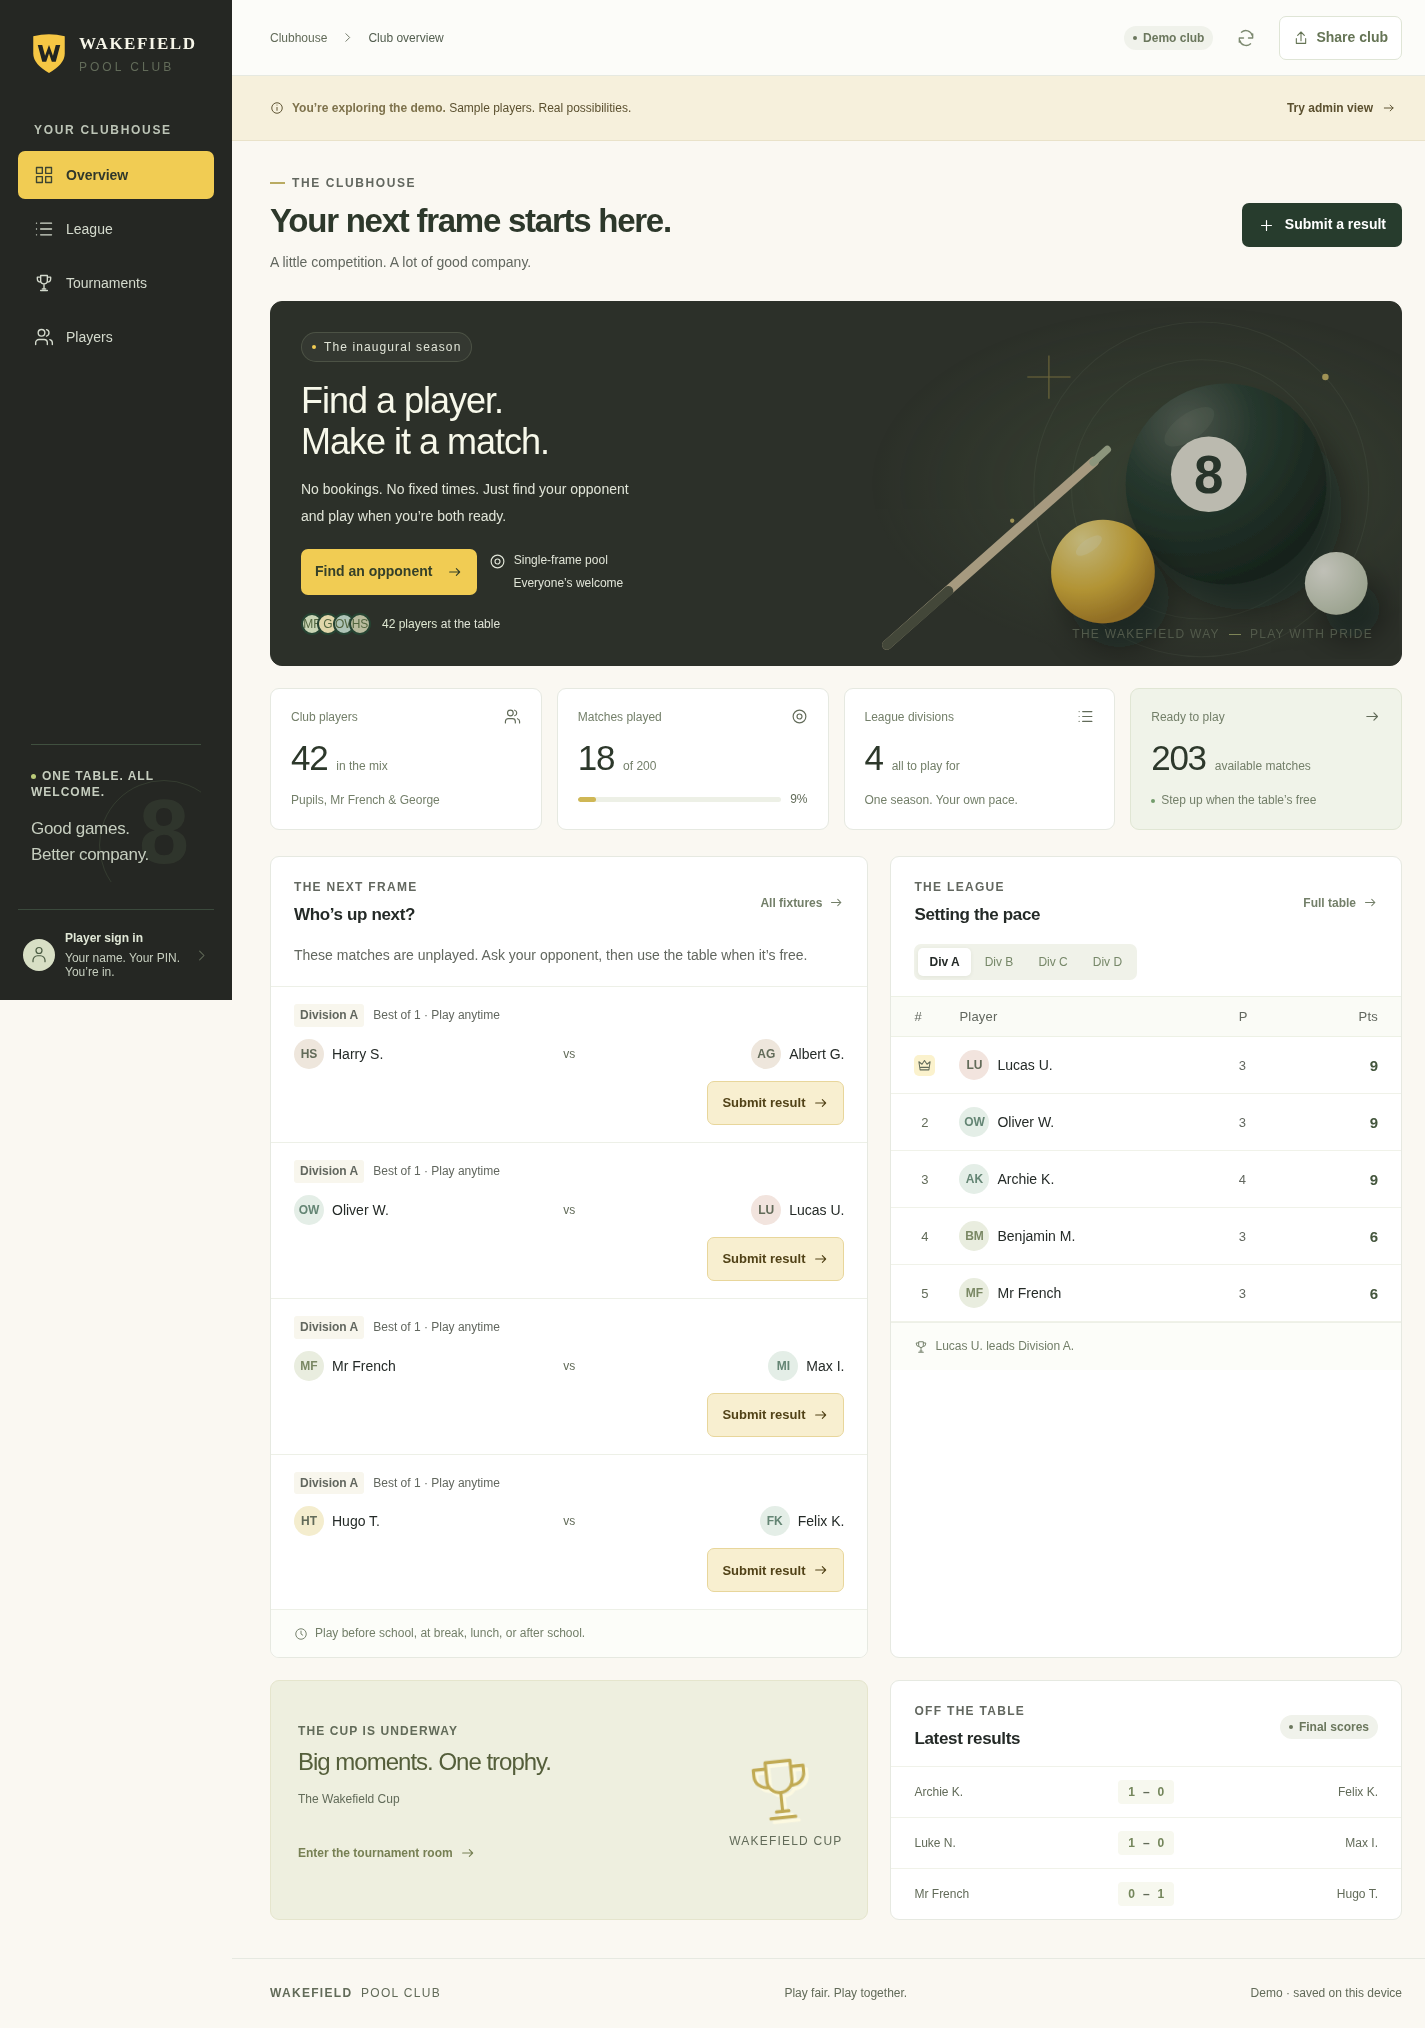
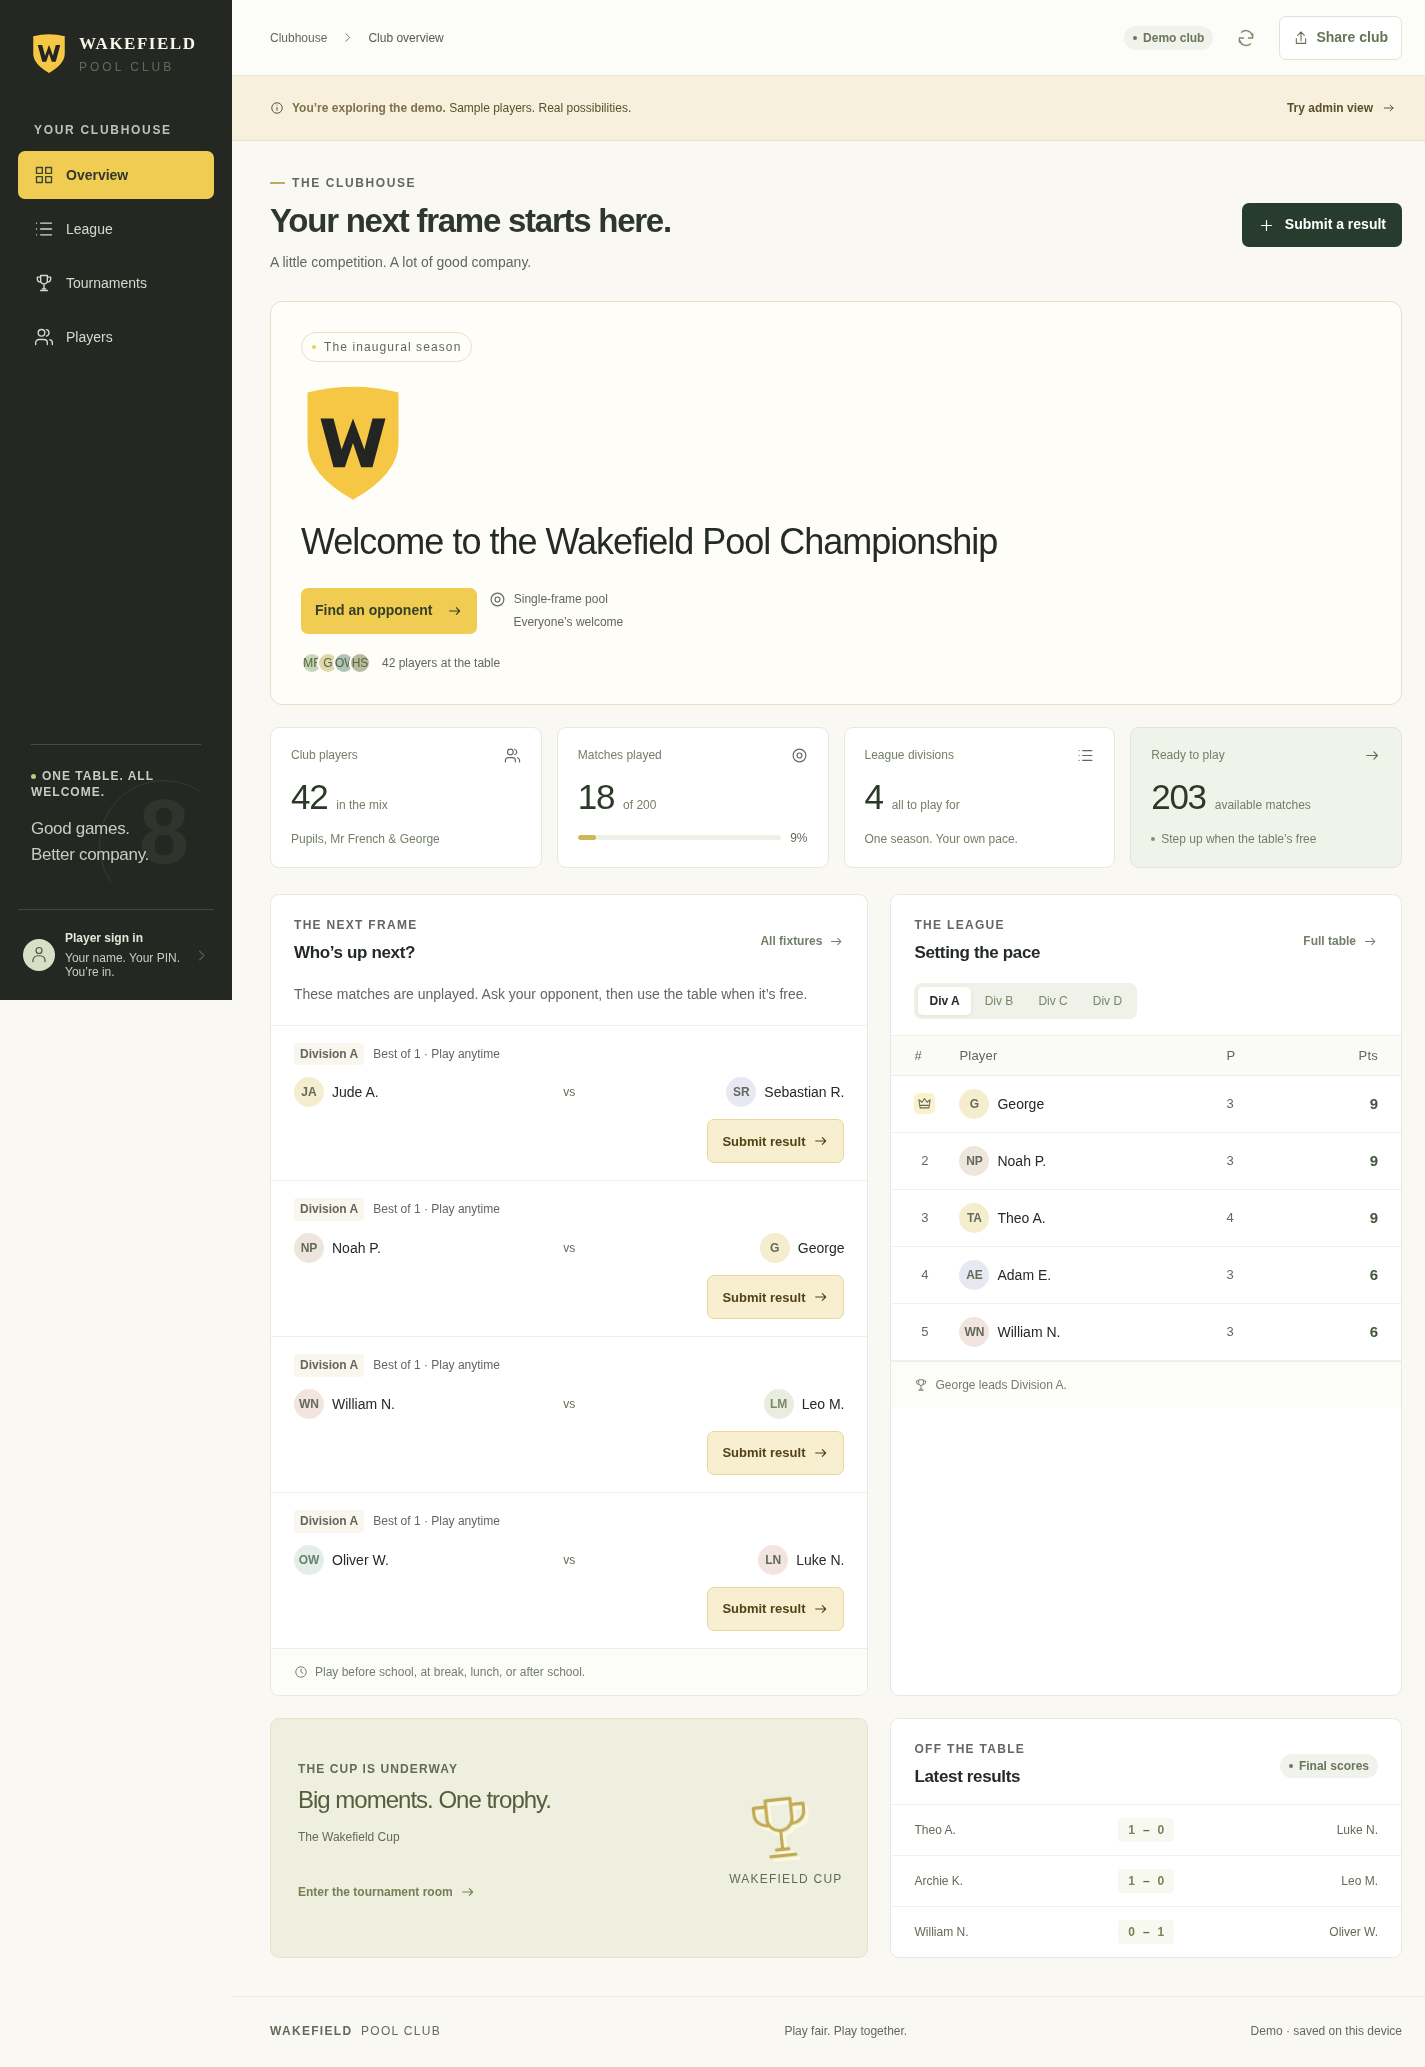
Replace promotional hero copy with a light championship welcome

diff --git a/demo/index.html b/demo/index.html
@@ -4247,6 +4247,17 @@ td strong{font-size:15px;color:var(--ink)}
 .season-card{background:#2c3029}
 .season-card .section-kicker,.season-card>strong span,.season-card>p,.season-card>div{color:#e0e4d7}
 .sidebar-season>span{color:#c6cebf}
+
+.welcome-crest{display:block;width:104px;height:124px;object-fit:contain;margin:20px 0 14px}
+.hero:has(.welcome-crest){grid-template-columns:1fr;min-height:0}
+.hero:has(.welcome-crest) .hero-art{display:none}
+.hero:has(.welcome-crest) h2{max-width:700px;margin-top:0;margin-bottom:24px;line-height:1.2}
+@media(max-width:760px){.welcome-crest{width:80px;height:96px}.hero:has(.welcome-crest) h2{font-size:28px;max-width:none}}
+.hero:has(.welcome-crest){background:#fffdf7;color:var(--ink);border-color:#e8dfc4}
+.hero:has(.welcome-crest) h2{color:var(--ink)}
+.hero:has(.welcome-crest) .hero-label{color:#62675f;background:transparent;border-color:#e8dfc4}
+.hero:has(.welcome-crest) .hero-foot,.hero:has(.welcome-crest) .hero-foot b,.hero:has(.welcome-crest) .hero-format,.hero:has(.welcome-crest) .hero-format>span{color:#62675f}
+.hero:has(.welcome-crest) .mini-avatars i{border-color:#fffdf7}
 </style>
 </head>
 <body><div id="app"><div class="loading">WAKEFIELD <span>Setting up the table…</span></div></div><div id="modal-root"></div><div id="toast" role="status" aria-live="polite"></div><script type="module">const uid = () => globalThis.crypto.randomUUID?.() || Array.from(globalThis.crypto.getRandomValues(new Uint8Array(16)), n => n.toString(16).padStart(2, '0')).join('');
@@ -4442,7 +4453,7 @@ function overview(){
  return `${heading('THE CLUBHOUSE',user?`Good to see you, ${e(user.name.split(' ')[0]==='Mr'?'Mr French':user.name.split(' ')[0])}.`:'Your next frame starts here.','A little competition. A lot of good company.',actionButton(`${icon('plus',17)} Submit a result`,'record','button primary'))}
  ${isAdmin()&&!total?`<section class="setup-banner"><div class="setup-icon">${icon('settings',24)}</div><div><b>Let’s get your club playing.</b><p>Add your players, personalise your rules, then generate your league.</p></div>${actionButton('Add players','addPlayers','button primary')}${actionButton('Club settings','openSettings','button secondary')}</section>`:''}
  ${isAdmin()&&state.submissions.length?`<a class="approval-alert" href="#approvals">${icon('check',18)}<span><b>${state.submissions.length} result${state.submissions.length===1?'':'s'} ready for your approval.</b> Make the latest games official.</span>${icon('arrow',18)}</a>`:''}
- <section class="hero"><div class="hero-copy"><span class="hero-label"><span class="status-dot"></span>${e(state.settings.season)}</span><h2>Find a player.<br>Make it a match.</h2><p>No bookings. No fixed times. Just find your opponent<br class="desktop-break"> and play when you’re both ready.</p><div class="hero-actions"><a class="button gold" href="#league" data-go-fixtures>Find an opponent ${icon('arrow',16)}</a><span class="hero-format">${icon('ball',17)} ${state.settings.frames===1?'Single-frame pool':`Best of ${state.settings.frames}`}<span>Everyone’s welcome</span></span></div><div class="hero-foot"><span class="mini-avatars">${state.players.slice(0,4).map(p=>`<i>${e(initials(p.name))}</i>`).join('')}</span><span><b>${state.players.length} players</b> at the table</span></div></div><div class="hero-art">${poolArtwork()}<span class="art-caption">THE WAKEFIELD WAY <i></i> PLAY WITH PRIDE</span></div></section>
[1 lines of base64/hex data omitted]
  <section class="stats-grid" aria-label="Club at a glance"><div class="stat"><div><span>Club players</span>${icon('players')}</div><strong>${state.players.length}<small>in the mix</small></strong><p>Pupils, Mr French & George</p></div><div class="stat"><div><span>Matches played</span>${icon('ball')}</div><strong>${completed}<small>of ${total}</small></strong><div class="stat-progress"><progress value="${rate}" max="100" aria-label="League completion"></progress><span>${rate}%</span></div></div><div class="stat"><div><span>League divisions</span>${icon('league')}</div><strong>${state.divisions.length}<small>all to play for</small></strong><p>One season. Your own pace.</p></div><div class="stat accent-stat"><div><span>Ready to play</span>${icon('arrow')}</div><strong>${available.length}<small>available matches</small></strong><p><span class="status-dot"></span>Step up when the table’s free</p></div></section>
  <div class="dashboard-grid"><section class="panel"><div class="panel-heading"><div><span class="section-kicker">THE NEXT FRAME</span><h2>${user?.id?'Your available matches':'Who’s up next?'}</h2></div><a href="#league" class="text-link" data-go-fixtures>${user?.id?'Your fixtures':'All fixtures'} ${icon('arrow',15)}</a></div><div class="panel-description">${user?.id?'Ask one of these opponents when they’re free.':'These matches are unplayed. Ask your opponent, then use the table when it’s free.'}</div>${mine.length?mine.slice(0,4).map(matchRow).join(''):empty('Ready when you are',total?'Your next opponents will appear here once a match becomes available.':'League fixtures will appear here after the draw.',!user?actionButton('Sign in to find your matches','login','button secondary'):'')}<div class="panel-foot">${icon('clock',14)} Play before school, at break, lunch, or after school.</div></section>
  <section class="panel standings-panel"><div class="panel-heading"><div><span class="section-kicker">THE LEAGUE</span><h2>Setting the pace</h2></div><a href="#league" class="text-link" data-go-standings>Full table ${icon('arrow',15)}</a></div>${state.divisions.length?`<div class="tabs compact" aria-label="Choose division">${state.divisions.map(d=>`<button class="${d.id===division?'selected':''}" data-division="${d.id}" aria-pressed="${d.id===division}">${e(d.name.replace('Division ','Div '))}</button>`).join('')}</div>${table(standings(state,division).slice(0,5),true)}<div class="panel-foot">${icon('trophy',14)} ${leader?.played?`${e(leader.name)} leads ${e(state.divisions.find(d=>d.id===division)?.name||'the division')}.`:'Every player starts with a clean slate.'}</div>`:empty('A fresh season awaits','Balanced divisions. Friendly rivalries. Your club’s league starts here.')}</section></div>

diff --git a/public/app.js b/public/app.js
@@ -68,7 +68,7 @@ function overview(){
  return `${heading('THE CLUBHOUSE',user?`Good to see you, ${e(user.name.split(' ')[0]==='Mr'?'Mr French':user.name.split(' ')[0])}.`:'Your next frame starts here.','A little competition. A lot of good company.',actionButton(`${icon('plus',17)} Submit a result`,'record','button primary'))}
  ${isAdmin()&&!total?`<section class="setup-banner"><div class="setup-icon">${icon('settings',24)}</div><div><b>Let’s get your club playing.</b><p>Add your players, personalise your rules, then generate your league.</p></div>${actionButton('Add players','addPlayers','button primary')}${actionButton('Club settings','openSettings','button secondary')}</section>`:''}
  ${isAdmin()&&state.submissions.length?`<a class="approval-alert" href="#approvals">${icon('check',18)}<span><b>${state.submissions.length} result${state.submissions.length===1?'':'s'} ready for your approval.</b> Make the latest games official.</span>${icon('arrow',18)}</a>`:''}
- <section class="hero"><div class="hero-copy"><span class="hero-label"><span class="status-dot"></span>${e(state.settings.season)}</span><h2>Find a player.<br>Make it a match.</h2><p>No bookings. No fixed times. Just find your opponent<br class="desktop-break"> and play when you’re both ready.</p><div class="hero-actions"><a class="button gold" href="#league" data-go-fixtures>Find an opponent ${icon('arrow',16)}</a><span class="hero-format">${icon('ball',17)} ${state.settings.frames===1?'Single-frame pool':`Best of ${state.settings.frames}`}<span>Everyone’s welcome</span></span></div><div class="hero-foot"><span class="mini-avatars">${state.players.slice(0,4).map(p=>`<i>${e(initials(p.name))}</i>`).join('')}</span><span><b>${state.players.length} players</b> at the table</span></div></div><div class="hero-art">${poolArtwork()}<span class="art-caption">THE WAKEFIELD WAY <i></i> PLAY WITH PRIDE</span></div></section>
+ <section class="hero"><div class="hero-copy"><span class="hero-label"><span class="status-dot"></span>${e(state.settings.season)}</span><img class="welcome-crest" src="${state.settings.logo?e(state.settings.logo):'/mark.svg'}" alt="${state.settings.logo?'Wakefield school crest':'Wakefield W monogram'}"><h2>Welcome to the Wakefield Pool Championship</h2><div class="hero-actions"><a class="button gold" href="#league" data-go-fixtures>Find an opponent ${icon('arrow',16)}</a><span class="hero-format">${icon('ball',17)} ${state.settings.frames===1?'Single-frame pool':`Best of ${state.settings.frames}`}<span>Everyone’s welcome</span></span></div><div class="hero-foot"><span class="mini-avatars">${state.players.slice(0,4).map(p=>`<i>${e(initials(p.name))}</i>`).join('')}</span><span><b>${state.players.length} players</b> at the table</span></div></div><div class="hero-art">${poolArtwork()}<span class="art-caption">THE WAKEFIELD WAY <i></i> PLAY WITH PRIDE</span></div></section>
  <section class="stats-grid" aria-label="Club at a glance"><div class="stat"><div><span>Club players</span>${icon('players')}</div><strong>${state.players.length}<small>in the mix</small></strong><p>Pupils, Mr French & George</p></div><div class="stat"><div><span>Matches played</span>${icon('ball')}</div><strong>${completed}<small>of ${total}</small></strong><div class="stat-progress"><progress value="${rate}" max="100" aria-label="League completion"></progress><span>${rate}%</span></div></div><div class="stat"><div><span>League divisions</span>${icon('league')}</div><strong>${state.divisions.length}<small>all to play for</small></strong><p>One season. Your own pace.</p></div><div class="stat accent-stat"><div><span>Ready to play</span>${icon('arrow')}</div><strong>${available.length}<small>available matches</small></strong><p><span class="status-dot"></span>Step up when the table’s free</p></div></section>
  <div class="dashboard-grid"><section class="panel"><div class="panel-heading"><div><span class="section-kicker">THE NEXT FRAME</span><h2>${user?.id?'Your available matches':'Who’s up next?'}</h2></div><a href="#league" class="text-link" data-go-fixtures>${user?.id?'Your fixtures':'All fixtures'} ${icon('arrow',15)}</a></div><div class="panel-description">${user?.id?'Ask one of these opponents when they’re free.':'These matches are unplayed. Ask your opponent, then use the table when it’s free.'}</div>${mine.length?mine.slice(0,4).map(matchRow).join(''):empty('Ready when you are',total?'Your next opponents will appear here once a match becomes available.':'League fixtures will appear here after the draw.',!user?actionButton('Sign in to find your matches','login','button secondary'):'')}<div class="panel-foot">${icon('clock',14)} Play before school, at break, lunch, or after school.</div></section>
  <section class="panel standings-panel"><div class="panel-heading"><div><span class="section-kicker">THE LEAGUE</span><h2>Setting the pace</h2></div><a href="#league" class="text-link" data-go-standings>Full table ${icon('arrow',15)}</a></div>${state.divisions.length?`<div class="tabs compact" aria-label="Choose division">${state.divisions.map(d=>`<button class="${d.id===division?'selected':''}" data-division="${d.id}" aria-pressed="${d.id===division}">${e(d.name.replace('Division ','Div '))}</button>`).join('')}</div>${table(standings(state,division).slice(0,5),true)}<div class="panel-foot">${icon('trophy',14)} ${leader?.played?`${e(leader.name)} leads ${e(state.divisions.find(d=>d.id===division)?.name||'the division')}.`:'Every player starts with a clean slate.'}</div>`:empty('A fresh season awaits','Balanced divisions. Friendly rivalries. Your club’s league starts here.')}</section></div>

diff --git a/public/style.css b/public/style.css
@@ -4241,3 +4241,14 @@ td strong{font-size:15px;color:var(--ink)}
 .season-card{background:#2c3029}
 .season-card .section-kicker,.season-card>strong span,.season-card>p,.season-card>div{color:#e0e4d7}
 .sidebar-season>span{color:#c6cebf}
+
+.welcome-crest{display:block;width:104px;height:124px;object-fit:contain;margin:20px 0 14px}
+.hero:has(.welcome-crest){grid-template-columns:1fr;min-height:0}
+.hero:has(.welcome-crest) .hero-art{display:none}
+.hero:has(.welcome-crest) h2{max-width:700px;margin-top:0;margin-bottom:24px;line-height:1.2}
+@media(max-width:760px){.welcome-crest{width:80px;height:96px}.hero:has(.welcome-crest) h2{font-size:28px;max-width:none}}
+.hero:has(.welcome-crest){background:#fffdf7;color:var(--ink);border-color:#e8dfc4}
+.hero:has(.welcome-crest) h2{color:var(--ink)}
+.hero:has(.welcome-crest) .hero-label{color:#62675f;background:transparent;border-color:#e8dfc4}
+.hero:has(.welcome-crest) .hero-foot,.hero:has(.welcome-crest) .hero-foot b,.hero:has(.welcome-crest) .hero-format,.hero:has(.welcome-crest) .hero-format>span{color:#62675f}
+.hero:has(.welcome-crest) .mini-avatars i{border-color:#fffdf7}
